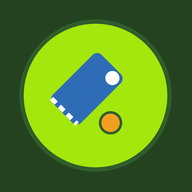
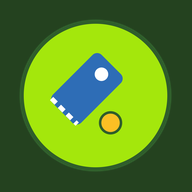
fix: 아이콘의 흰 원은 머리다 — 차체 축선 위로 옮긴다
기현님 지적: *"흰 원이 머리인데 한 귀퉁이로 몰리면 안 된다."*

공인 줄 알고 **회전 그룹 밖의 절대 좌표**(311,199)에 찍어 뒀다. 차체 축과
아무 관계가 없는 자리라, 눕힌 차체 위에서 한쪽 모서리로 몰려 보였다.

머리를 그룹 **안**으로 넣고, 자리는 앱이 코트에 그리는 그 자리로 잡았다
(core/constants.ts 의 CHAIR): 피벗은 뒤에서 길이의 20%(7.5/37.5) 지점이고
**폭 한가운데**(y=0) 다. 반지름도 같은 비율(4.2/25 = 폭의 16.8%).
그래서 이 마크의 휠체어가 트레이 칩·코트 칩과 **같은 물건**으로 읽힌다.

곁들여 하나 더 맞췄다: 주황 원은 콘이 아니라 **공**이었다. 색을 앱의
`BALL_FILL`(#fbbf24) 로 바꿨다 — 임의로 고른 #f2a01f 를 쓰고 있었다.

PNG 다섯도 다시 구웠다 — art/README.md 에 어제 박아 둔 그 경고다.

검증: 216 파일 / 2827 테스트 초록, build ✓.

Claude-Session: https://claude.ai/code/session_01FVLCgnxNAhNatdSofeGPxR

Changed region(s): [[0.4688, 0.3438, 0.625, 0.4688], [0.5312, 0.5938, 0.625, 0.6875]]

diff --git a/CHANGELOG.md b/CHANGELOG.md
@@ -19,6 +19,7 @@
 - **★ 작도·메모 서랍이 안 펼쳐지던 것을 고쳤습니다.** 트레이 자신이 패널을 잘라내고 있었습니다 — 아래 띠는 좌우 스크롤을 열어 두는데, CSS 는 한쪽 축을 스크롤로 열면 **다른 축도 함께 잘라냅니다.** 그래서 위로 뜨는 패널이 띠 경계에서 통째로 사라졌습니다. 이제 패널을 트레이 바깥에 띄우고 손잡이 위치를 재서 붙입니다.
 - **아래 트레이가 가운데 정렬됩니다.** 다만 내용이 띠보다 넓어지면 **자동으로 왼쪽 붙임으로 돌아갑니다** — 가운데 정렬인 채로 넘치면 왼쪽으로 넘친 부분은 스크롤로 갈 수가 없어서 1번 선수에 영영 손이 안 닿습니다.
 - **새 앱 아이콘을 넣었습니다** — 초록 원 안의 파란 코트와 공·콘. **왼쪽 위 `SP` 글자 로고**, 탭 아이콘(파비콘), 홈 화면·설치형 아이콘이 전부 이 그림으로 바뀌었습니다.
+  - 흰 원은 **선수 머리**입니다. 앱이 코트에 그리는 그 자리 — 차체 **폭 한가운데 축선** 위, 뒤에서 길이의 20% 지점(피벗) — 에 놓았습니다. 그래야 이 마크의 휠체어가 트레이 칩·코트 칩과 같은 물건으로 읽힙니다. 주황 원은 공이고 색도 앱과 같은 값입니다.
   - **SVG 로 그렸습니다.** 원·둥근 사각·점 몇 개짜리 그림이라 자동 추적하지 않고 도형 6개로 다시 그렸습니다 — 추적하면 매끈한 곡선이 점 수백 개로 쪼개져 파일은 커지고 모양은 흐려집니다. 지금은 **1.6 KB** 이고, 화면 배율을 아무리 올려도 코트의 흰 파선까지 또렷합니다.
   - 탭 아이콘은 SVG 를 먼저 쓰되 32·48 PNG 도 함께 둡니다 — 16px 로 줄어드는 자리에서는 파선이 뭉개져서, 그 크기용으로 미리 구운 그림을 브라우저가 고르게 했습니다.
   - 홈 화면·설치형 아이콘은 **잔디색 정사각 바탕**에 얹었습니다. iOS 는 투명한 부분을 검게 칠하고, 안드로이드의 마스크 아이콘은 모서리를 잘라내서 투명한 원을 주면 원이 잘립니다.
